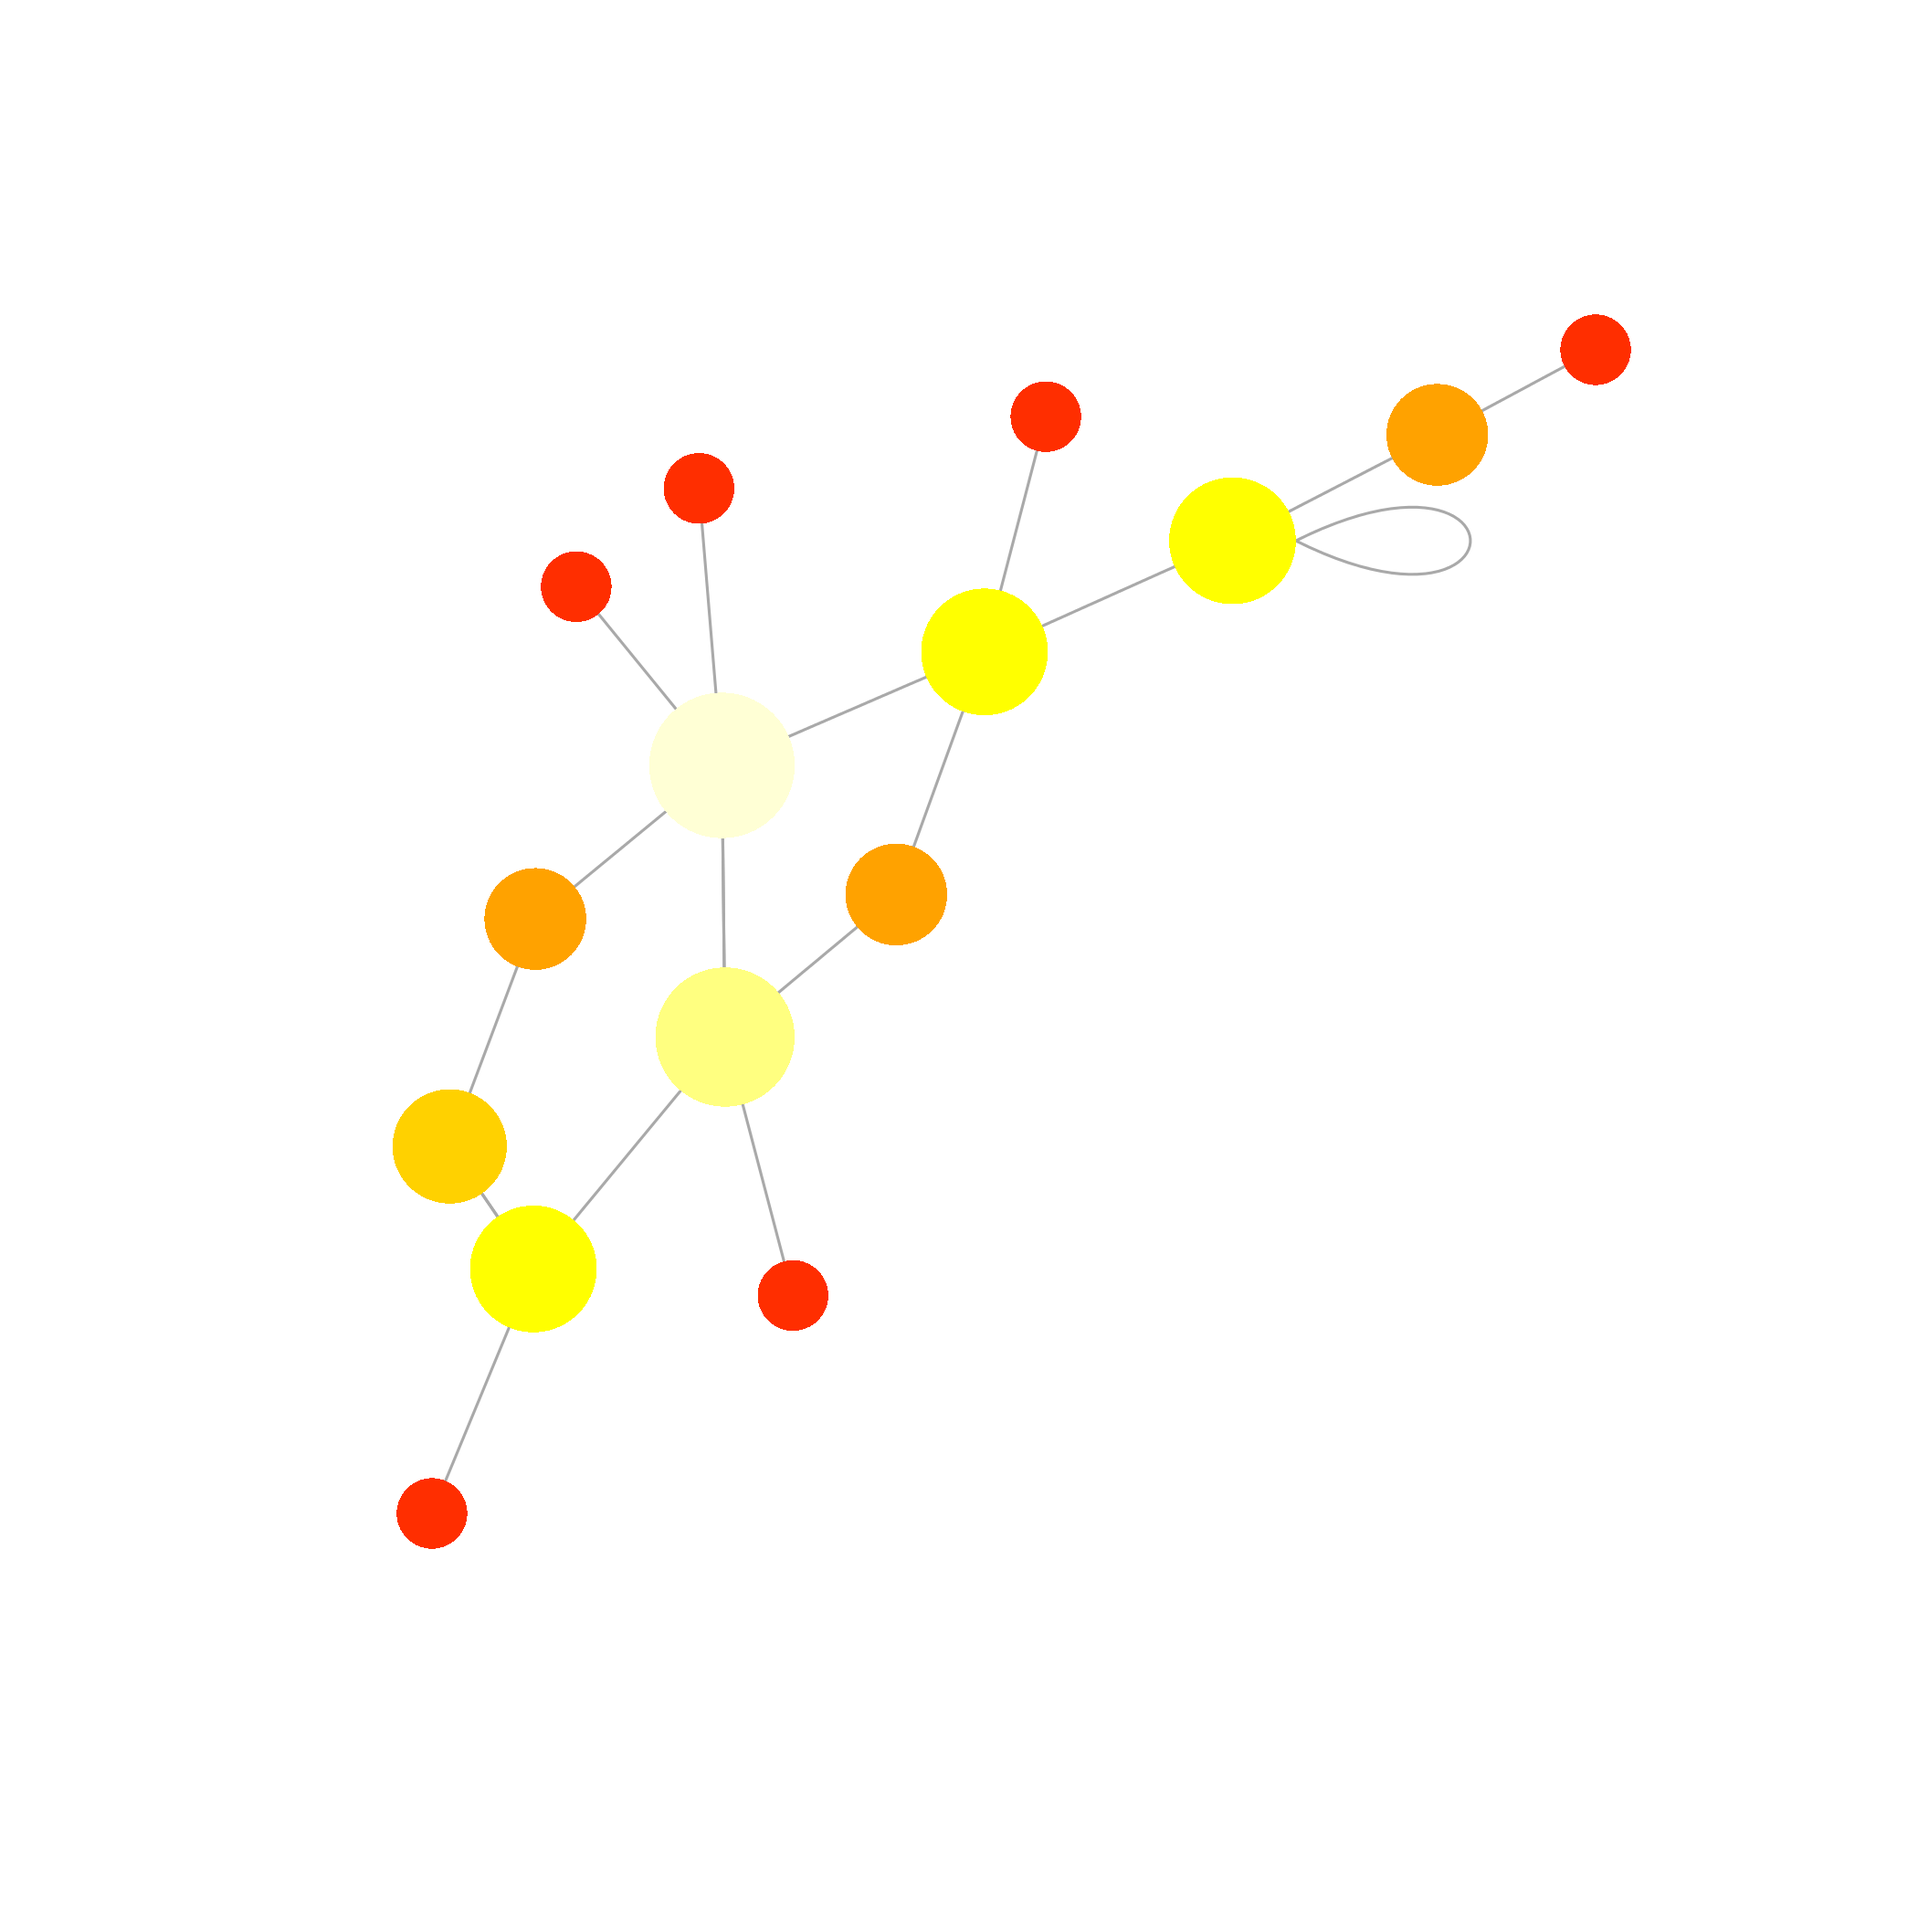
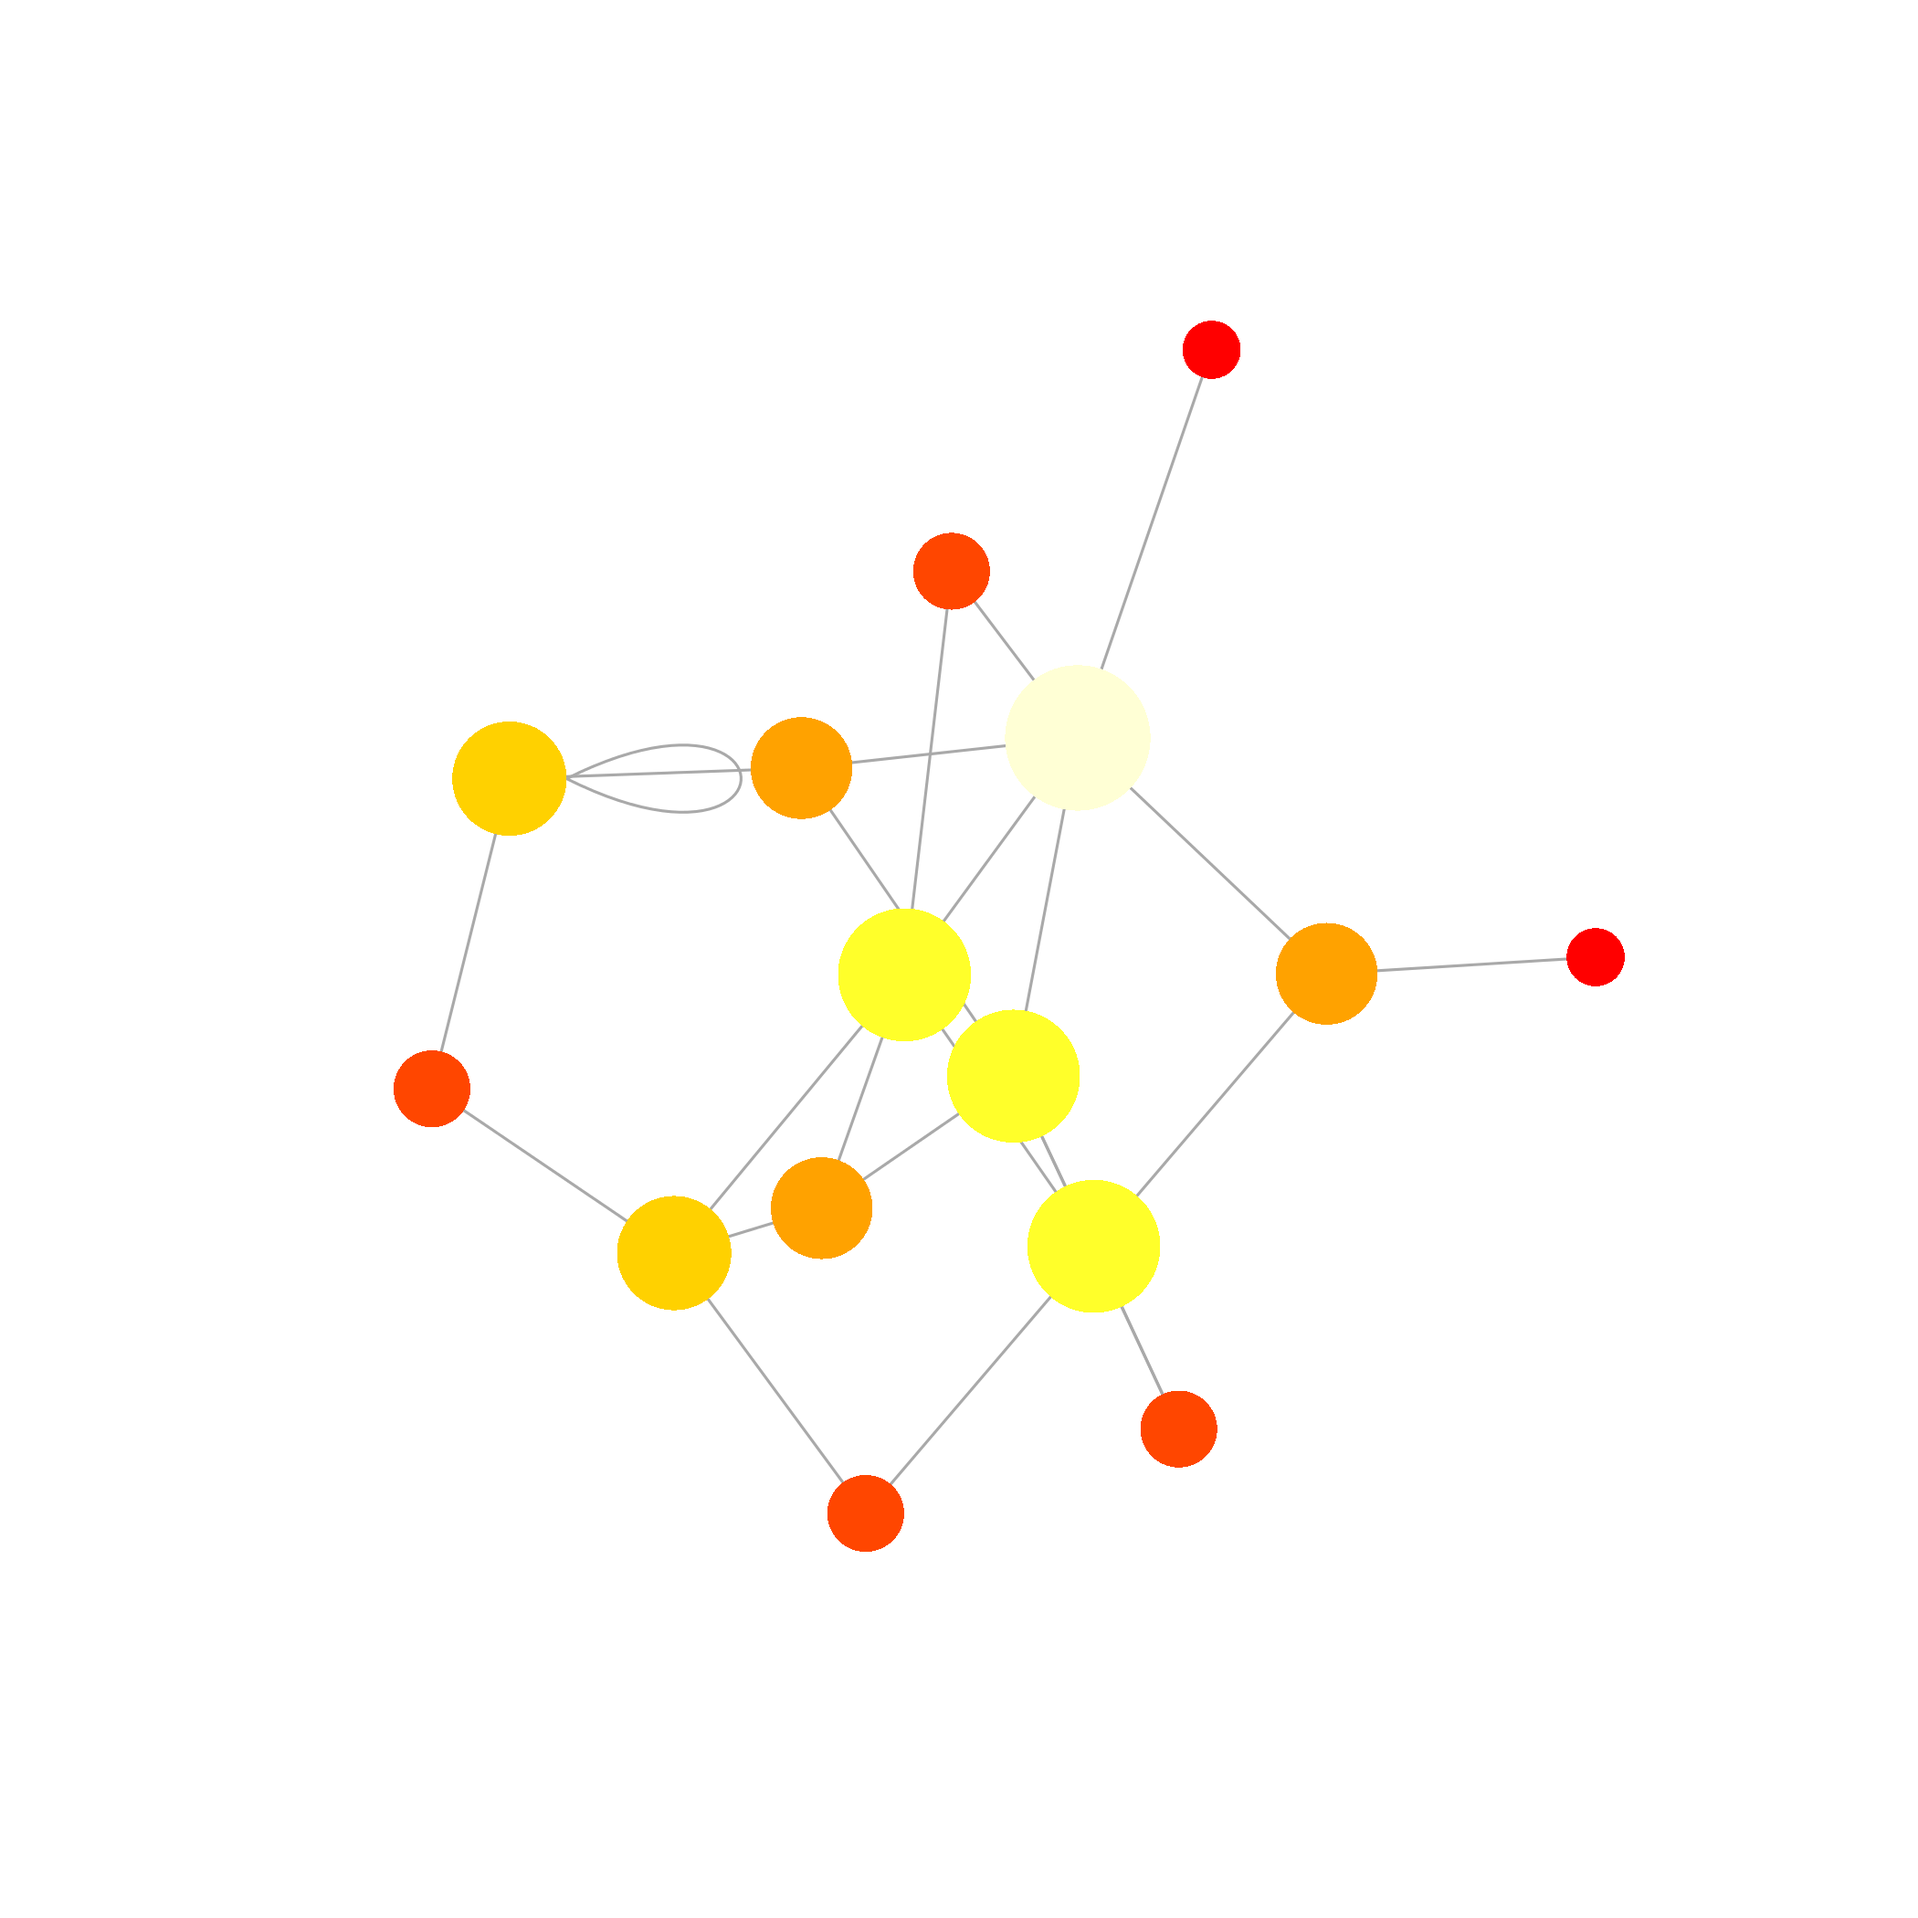
Update the slides

diff --git a/cours5/index.html b/cours5/index.html
@@ -946,7 +946,7 @@ L[runif(S*S) &lt; C] = 1
 sum(L)
 </code></pre>
 
-<pre><code>## [1] 19
+<pre><code>## [1] 24
 </code></pre>
 
 <pre><code class="r">g &lt;- graph.adjacency(L)
@@ -1122,7 +1122,7 @@ plot(g, vertex.label=NA, edge.arrow.mode = 0,
 modularity(wtc)
 </code></pre>
 
-<pre><code>## [1] 0.4279779
+<pre><code>## [1] 0.2682292
 </code></pre>
 
   </article>
@@ -1140,37 +1140,37 @@ modularity(wtc)
 </code></pre>
 
 <pre><code>##       [,1] [,2] [,3] [,4] [,5] [,6] [,7] [,8] [,9] [,10] [,11] [,12] [,13]
-##  [1,]    0    3    3    2    2    1    2    3    5     4     3     2     4
-##  [2,]    3    0    3    1    3    2    2    3    6     2     4     3     5
-##  [3,]    3    3    0    3    3    2    1    2    6     3     4     3     5
-##  [4,]    2    1    3    0    2    1    2    3    5     3     3     2     4
-##  [5,]    2    3    3    2    0    1    2    1    3     4     1     2     2
-##  [6,]    1    2    2    1    1    0    1    2    4     3     2     1     3
-##  [7,]    2    2    1    2    2    1    0    1    5     2     3     2     4
-##  [8,]    3    3    2    3    1    2    1    0    4     3     2     3     3
-##  [9,]    5    6    6    5    3    4    5    4    0     7     2     5     1
-## [10,]    4    2    3    3    4    3    2    3    7     0     5     4     6
-## [11,]    3    4    4    3    1    2    3    2    2     5     0     3     1
-## [12,]    2    3    3    2    2    1    2    3    5     4     3     0     4
-## [13,]    4    5    5    4    2    3    4    3    1     6     1     4     0
-## [14,]    3    1    2    2    3    2    1    2    6     1     4     3     5
-## [15,]    3    4    4    3    1    2    3    2    4     5     2     3     3
+##  [1,]    0    3    3    1    1    2    2    2    2     1     4     3     1
+##  [2,]    3    0    2    4    3    1    2    3    2     4     3     3     2
+##  [3,]    3    2    0    2    2    1    1    1    2     3     3     2     2
+##  [4,]    1    4    2    0    2    3    3    1    3     2     5     4     2
+##  [5,]    1    3    2    2    0    2    1    3    2     2     4     2     1
+##  [6,]    2    1    1    3    2    0    1    2    1     3     2     2     1
+##  [7,]    2    2    1    3    1    1    0    2    2     2     3     1     2
+##  [8,]    2    3    1    1    3    2    2    0    3     3     4     3     3
+##  [9,]    2    2    2    3    2    1    2    3    0     3     3     3     1
+## [10,]    1    4    3    2    2    3    2    3    3     0     3     2     2
+## [11,]    4    3    3    5    4    2    3    4    3     3     0     3     3
+## [12,]    3    3    2    4    2    2    1    3    3     2     3     0     2
+## [13,]    1    2    2    2    1    1    2    3    1     2     3     2     0
+## [14,]    3    2    2    4    3    1    2    3    2     2     1     2     2
+## [15,]    2    3    2    3    2    2    1    3    2     1     2     1     1
 ##       [,14] [,15]
-##  [1,]     3     3
-##  [2,]     1     4
-##  [3,]     2     4
-##  [4,]     2     3
-##  [5,]     3     1
-##  [6,]     2     2
-##  [7,]     1     3
-##  [8,]     2     2
-##  [9,]     6     4
-## [10,]     1     5
-## [11,]     4     2
-## [12,]     3     3
-## [13,]     5     3
-## [14,]     0     4
-## [15,]     4     0
+##  [1,]     3     2
+##  [2,]     2     3
+##  [3,]     2     2
+##  [4,]     4     3
+##  [5,]     3     2
+##  [6,]     1     2
+##  [7,]     2     1
+##  [8,]     3     3
+##  [9,]     2     2
+## [10,]     2     1
+## [11,]     1     2
+## [12,]     2     1
+## [13,]     2     1
+## [14,]     0     1
+## [15,]     1     0
 </code></pre>
 
   </article>
@@ -1187,9 +1187,9 @@ modularity(wtc)
 <pre><code class="r">eigen_centrality(g)$vector
 </code></pre>
 
-<pre><code>##  [1] 0.28958290 0.47150321 0.27756515 0.42612217 0.53095503 1.00000000
-##  [7] 0.95849977 0.43132064 0.02274078 0.17405276 0.24844036 0.28958290
-## [13] 0.07852942 0.60104638 0.15375550
+<pre><code>##  [1] 0.5856160 0.2634575 0.5899119 0.2317126 0.6546506 1.0000000 0.9452254
+##  [8] 0.2938908 0.5147964 0.3824451 0.1391809 0.4771869 0.9540021 0.5282859
+## [15] 0.8660230
 </code></pre>
 
   </article>

diff --git a/cours5/index.md b/cours5/index.md
@@ -668,7 +668,7 @@ sum(L)
 ```
 
 ```
-## [1] 19
+## [1] 24
 ```
 
 ```r
@@ -810,7 +810,7 @@ modularity(wtc)
 ```
 
 ```
-## [1] 0.4279779
+## [1] 0.2682292
 ```
 
 ---
@@ -826,37 +826,37 @@ distances(g)
 
 ```
 ##       [,1] [,2] [,3] [,4] [,5] [,6] [,7] [,8] [,9] [,10] [,11] [,12] [,13]
-##  [1,]    0    3    3    2    2    1    2    3    5     4     3     2     4
-##  [2,]    3    0    3    1    3    2    2    3    6     2     4     3     5
-##  [3,]    3    3    0    3    3    2    1    2    6     3     4     3     5
-##  [4,]    2    1    3    0    2    1    2    3    5     3     3     2     4
-##  [5,]    2    3    3    2    0    1    2    1    3     4     1     2     2
-##  [6,]    1    2    2    1    1    0    1    2    4     3     2     1     3
-##  [7,]    2    2    1    2    2    1    0    1    5     2     3     2     4
-##  [8,]    3    3    2    3    1    2    1    0    4     3     2     3     3
-##  [9,]    5    6    6    5    3    4    5    4    0     7     2     5     1
-## [10,]    4    2    3    3    4    3    2    3    7     0     5     4     6
-## [11,]    3    4    4    3    1    2    3    2    2     5     0     3     1
-## [12,]    2    3    3    2    2    1    2    3    5     4     3     0     4
-## [13,]    4    5    5    4    2    3    4    3    1     6     1     4     0
-## [14,]    3    1    2    2    3    2    1    2    6     1     4     3     5
-## [15,]    3    4    4    3    1    2    3    2    4     5     2     3     3
+##  [1,]    0    3    3    1    1    2    2    2    2     1     4     3     1
+##  [2,]    3    0    2    4    3    1    2    3    2     4     3     3     2
+##  [3,]    3    2    0    2    2    1    1    1    2     3     3     2     2
+##  [4,]    1    4    2    0    2    3    3    1    3     2     5     4     2
+##  [5,]    1    3    2    2    0    2    1    3    2     2     4     2     1
+##  [6,]    2    1    1    3    2    0    1    2    1     3     2     2     1
+##  [7,]    2    2    1    3    1    1    0    2    2     2     3     1     2
+##  [8,]    2    3    1    1    3    2    2    0    3     3     4     3     3
+##  [9,]    2    2    2    3    2    1    2    3    0     3     3     3     1
+## [10,]    1    4    3    2    2    3    2    3    3     0     3     2     2
+## [11,]    4    3    3    5    4    2    3    4    3     3     0     3     3
+## [12,]    3    3    2    4    2    2    1    3    3     2     3     0     2
+## [13,]    1    2    2    2    1    1    2    3    1     2     3     2     0
+## [14,]    3    2    2    4    3    1    2    3    2     2     1     2     2
+## [15,]    2    3    2    3    2    2    1    3    2     1     2     1     1
 ##       [,14] [,15]
-##  [1,]     3     3
-##  [2,]     1     4
-##  [3,]     2     4
-##  [4,]     2     3
-##  [5,]     3     1
-##  [6,]     2     2
-##  [7,]     1     3
-##  [8,]     2     2
-##  [9,]     6     4
-## [10,]     1     5
-## [11,]     4     2
-## [12,]     3     3
-## [13,]     5     3
-## [14,]     0     4
-## [15,]     4     0
+##  [1,]     3     2
+##  [2,]     2     3
+##  [3,]     2     2
+##  [4,]     4     3
+##  [5,]     3     2
+##  [6,]     1     2
+##  [7,]     2     1
+##  [8,]     3     3
+##  [9,]     2     2
+## [10,]     2     1
+## [11,]     1     2
+## [12,]     2     1
+## [13,]     2     1
+## [14,]     0     1
+## [15,]     1     0
 ```
 
 ---
@@ -871,9 +871,9 @@ eigen_centrality(g)$vector
 ```
 
 ```
-##  [1] 0.28958290 0.47150321 0.27756515 0.42612217 0.53095503 1.00000000
-##  [7] 0.95849977 0.43132064 0.02274078 0.17405276 0.24844036 0.28958290
-## [13] 0.07852942 0.60104638 0.15375550
+##  [1] 0.5856160 0.2634575 0.5899119 0.2317126 0.6546506 1.0000000 0.9452254
+##  [8] 0.2938908 0.5147964 0.3824451 0.1391809 0.4771869 0.9540021 0.5282859
+## [15] 0.8660230
 ```
 
 --- .transition
